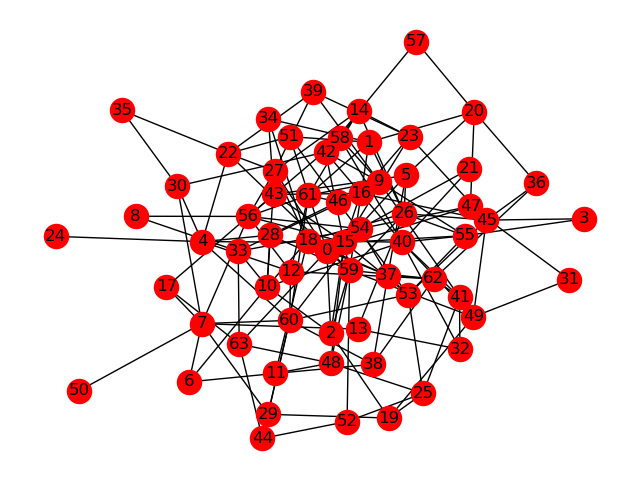
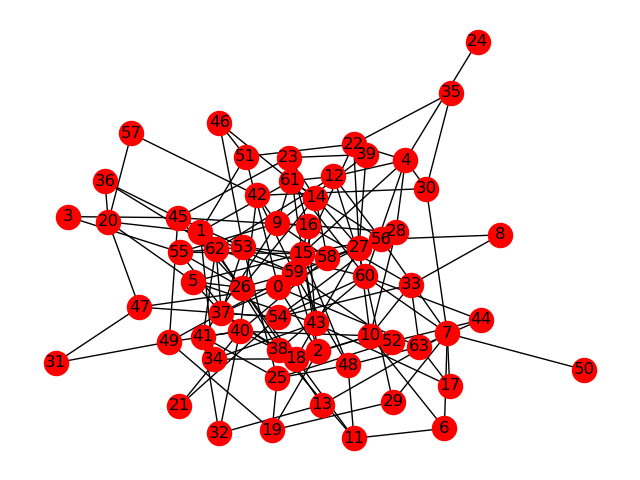
t

diff --git a/scripts/analysis.py b/scripts/analysis.py
@@ -321,7 +321,7 @@ def cal():
 def pc_cdf():
     bdata = []
     pdata = []
-    with open("ignored/ospfcount/result.4.dat") as f:
+    with open("ignored/ospfcount/result.0125.dat") as f:
         total_bytes = 0
         total_pkts = 0
         current_sw = 1
@@ -341,10 +341,11 @@ def pc_cdf():
 
             else:
                 break
+        print sum(pdata)
         # cdf(bdata, '#Bytes')
         cdf(pdata, '#Pkts')
 
-pc_cdf()
+# pc_cdf()
 
 def get_time(line):
     timestr = line[:26]
@@ -366,6 +367,7 @@ def new_ospf():
     starts=[1575353372.93,1575353572.99]
     first_event = 1575352602.32
     start = 1675381401.00
+    step =[0, 120, 220, 360, 480, 600, 750, 880]
     for i in range(64):
         with open('ignored/ospflog/%s.log' % i) as f:
             while True:
@@ -379,7 +381,7 @@ def new_ospf():
                     # if tmstamp > timep[round] + 10:
                     #     break
                     if 'MESSAGE: ZEBRA_INTERFACE' in line: # event
-                        if tmstamp < start and tmstamp > first_event + 0:
+                        if tmstamp < start and tmstamp > first_event + step[7]:
                             start = tmstamp
                 else:
                     break
@@ -405,6 +407,8 @@ def new_ospf():
                             y.append(i)
                 else:
                     break
+    print np.min(time_list), np.max(time_list), np.average(time_list), np.median(time_list)
+    # return
     event_list = []
     y1 = []
     for i in range(64):
@@ -425,7 +429,9 @@ def new_ospf():
                             y1.append(i)
                 else:
                     break
-
+    print np.max(event_list)
+    print np.max(time_list) - np.max(event_list)
+    return
     plt.scatter(time_list, y, label='FIB update', s=1.5)
     plt.scatter(event_list, y1, label='Event', s=3)
     plt.grid(True)
@@ -435,7 +441,7 @@ def new_ospf():
     plt.xlim(0)
     plt.show()
 
-# new_ospf()
+new_ospf()
 
 
 def show():

diff --git a/scripts/gentopo.py b/scripts/gentopo.py
@@ -9,7 +9,7 @@ def gen_topo(n):
     # G = nx.fast_gnp_random_graph(n, 0.132, 1)
     G = nx.fast_gnp_random_graph(n, 0.071, 1)
     print len(G.edges)
-    return
+
     topo = {
         'nodes': [],
         'links': []
@@ -18,13 +18,14 @@ def gen_topo(n):
         topo['nodes'].append(no)
     for e in G.edges:
         topo['links'].append(e)
-    print json.dumps(topo)
-    with open('topo%s.json' % str(n), 'w') as f:
-        json.dump(topo, f, indent=2)
+    # print json.dumps(topo)
+
     nx.draw(G, with_labels=True)
     plt.savefig("topo%s.png" % str(n))
     plt.show()
     return
+    with open('topo%s.json' % str(n), 'w') as f:
+        json.dump(topo, f, indent=2)
     result = {}
 
     for i in range(n):
